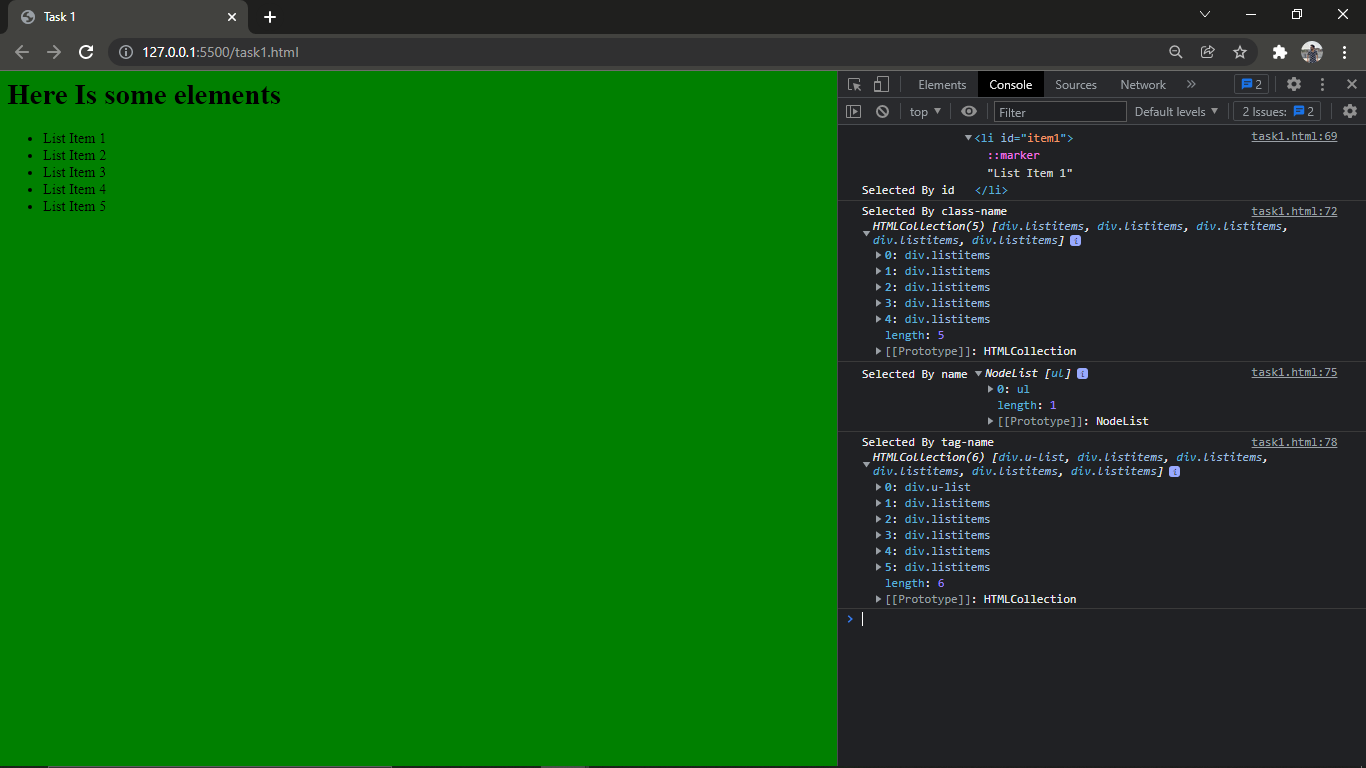
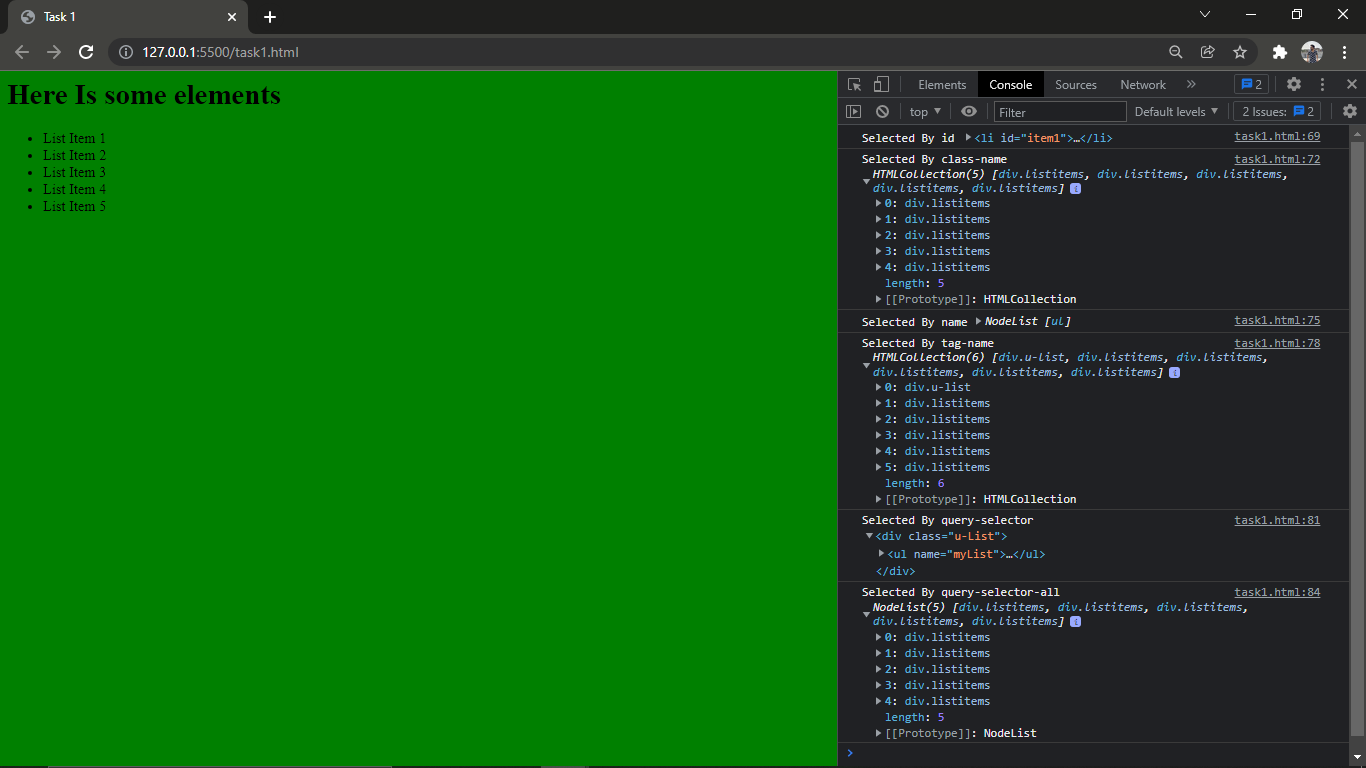
Task-Completed!

Changed region(s): [[0.6149, 0.1562, 1.0, 1.0]]

diff --git a/task1.html b/task1.html
@@ -40,6 +40,12 @@
         selectItem = document.getElementsByTagName("div");
         console.log("Selected By tag-name",selectItem);
 
+        selectItem = document.querySelector(".u-List");
+        console.log("Selected By query-selector",selectItem);
+
+        selectItem = document.querySelectorAll(".listItems");
+        console.log("Selected By query-selector-all",selectItem);
+
         selectItem = document.body;
         selectItem.style.backgroundColor = "green";
 
